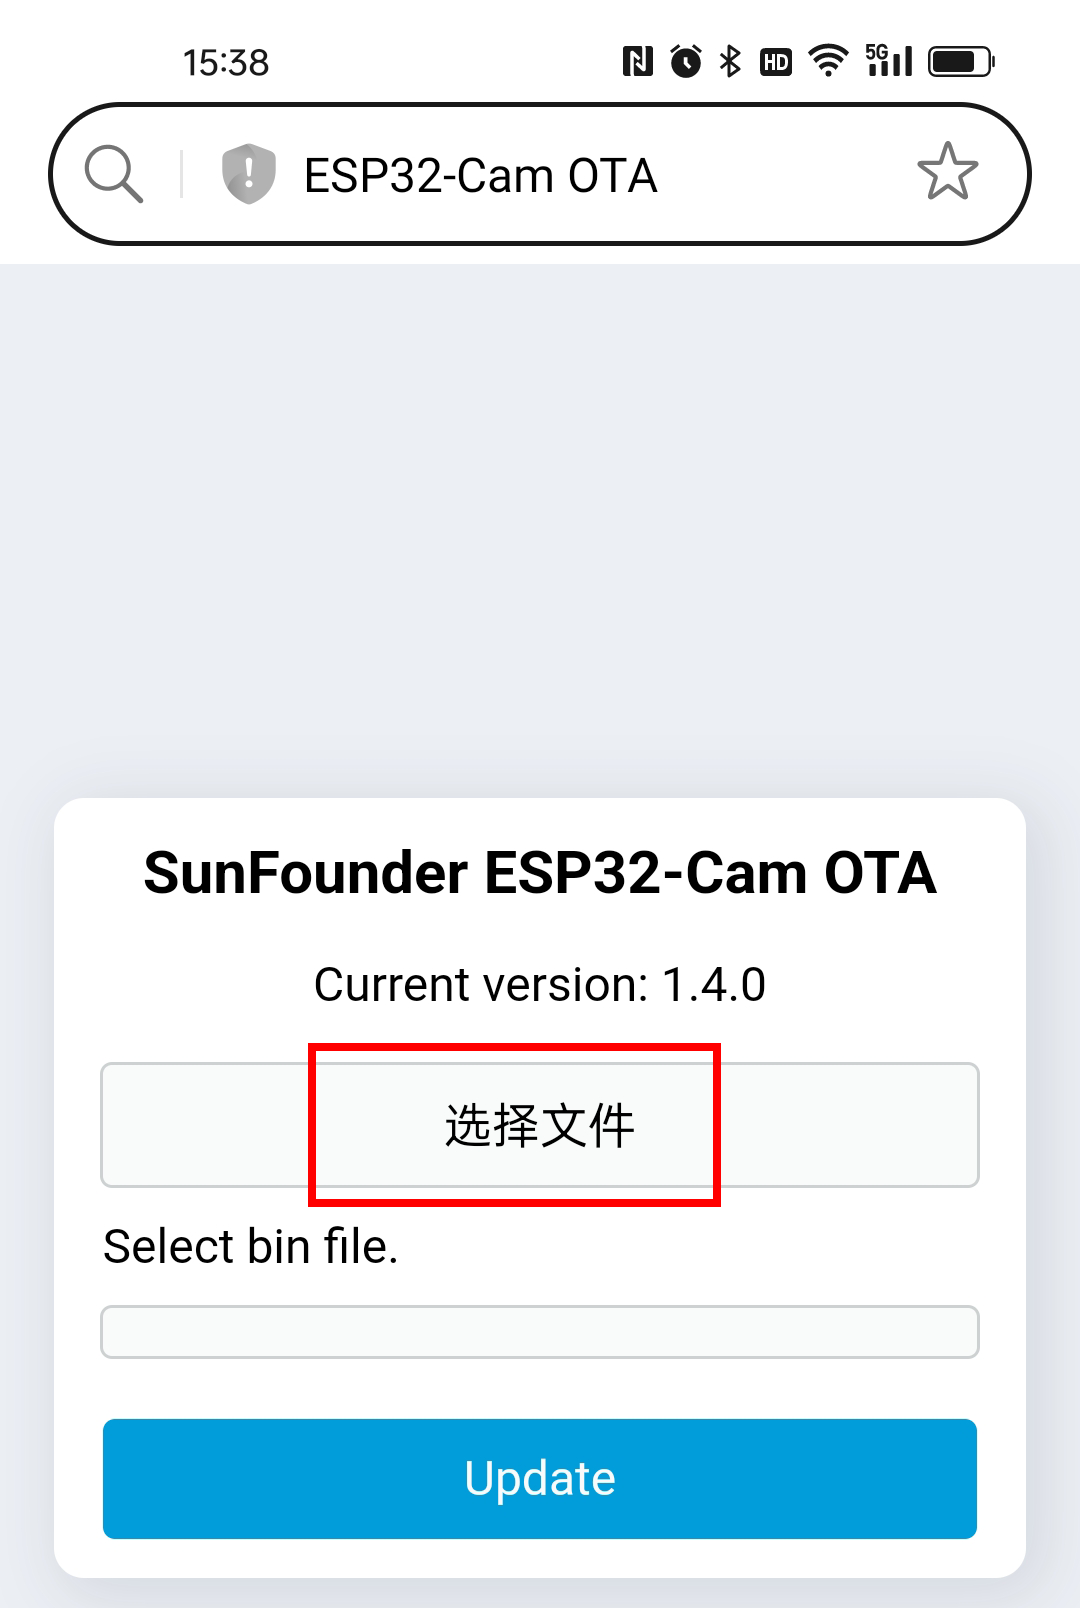
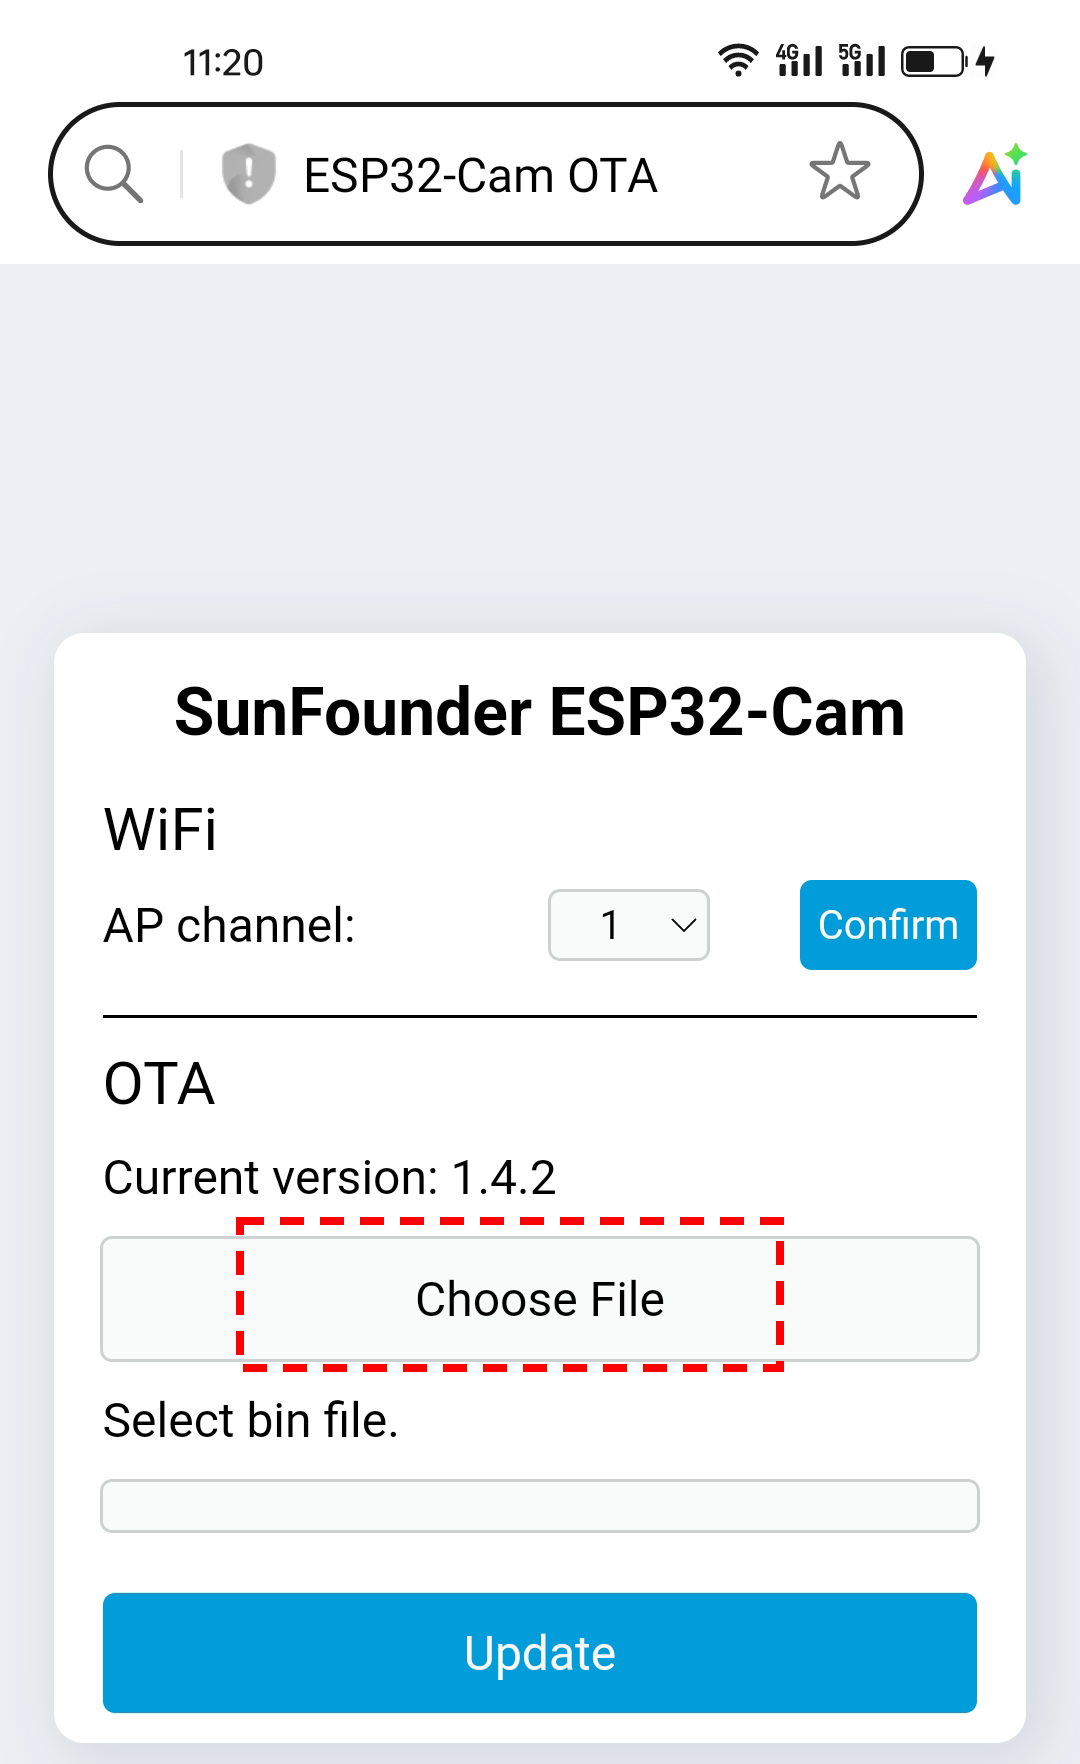
docs: update ESP32 CAM firmware version to 1.4.2 in FAQ
Update documentation and related images to reflect the new firmware version 1.4.2 for ESP32 CAM, including download links and version references

diff --git a/docs/source/faq.rst b/docs/source/faq.rst
@@ -9,26 +9,26 @@
 
 .. note::
 
-   若要修改 Wi-Fi 信道，ESP32 CAM 固件版本需为 1.4.1 及以上。更多信息请参阅 :ref:`update_firmware` 。
+   若要修改 Wi-Fi 信道，ESP32 CAM 固件版本需为 1.4.2 及以上。更多信息请参阅 :ref:`update_firmware` 。
 
 #. 打开 GalaxyRVR 电源。将模式拨至 **Run** 位置以启用 ESP32 CAM，并按下 **reset** 按钮重启 R3 主控板。
 
-     .. raw:: html
+   .. raw:: html
 
-        <video width="600" loop autoplay muted>
-            <source src="_static/video/play_reset.mp4" type="video/mp4">
-            Your browser does not support the video tag.
-        </video>
+      <video width="600" loop autoplay muted>
+          <source src="_static/video/play_reset.mp4" type="video/mp4">
+          Your browser does not support the video tag.
+      </video>
 
 #. 在手机或平板设备的 Wi-Fi 列表中找到 ``GalaxyRVR``，输入密码 ``12345678`` 并连接。
 
-     .. note::
+   .. note::
 
-        * 当前为连接至 GalaxyRVR 热点模式，无互联网访问。如果系统提示切换网络，请选择“保持连接”。
-        * :ref:`ap_to_sta`
+      * 当前为连接至 GalaxyRVR 热点模式，无互联网访问。如果系统提示切换网络，请选择“保持连接”。
+      * :ref:`ap_to_sta`
 
-     .. image:: img/app/camera_lan.png
-        :width: 500
+   .. image:: img/app/camera_lan.png
+      :width: 500
 
 #. 在浏览器中输入 ``http://192.168.4.1`` ，进入 ESP32 CAM OTA 更新页面。
 
@@ -61,26 +61,26 @@
 
 #. 打开 GalaxyRVR 电源，将模式拨至 **Run** ，并按下 **reset** 按钮重启 R3 主控板。
 
-     .. raw:: html
+   .. raw:: html
 
-        <video width="600" loop autoplay muted>
-            <source src="_static/video/play_reset.mp4" type="video/mp4">
-            Your browser does not support the video tag.
-        </video>
+      <video width="600" loop autoplay muted>
+          <source src="_static/video/play_reset.mp4" type="video/mp4">
+          Your browser does not support the video tag.
+      </video>
 
 #. 使用手机或平板连接 ``GalaxyRVR`` Wi-Fi，密码为 ``12345678`` 。
 
-     .. note::
+   .. note::
 
-        * 当前为 GalaxyRVR 热点，无互联网访问。如提示切换网络，请选择“保持连接”。
-        * :ref:`ap_to_sta`
+      * 当前为 GalaxyRVR 热点，无互联网访问。如提示切换网络，请选择“保持连接”。
+      * :ref:`ap_to_sta`
 
-     .. image:: img/app/camera_lan.png
+   .. image:: img/app/camera_lan.png
         :width: 500
 
-#. 点击下方链接下载固件 ``ai-camera-firmware-v1.4.1-ota.bin`` 并保存到设备。
+#. 点击下方链接下载固件 ``ai-camera-firmware-v1.4.2-ota.bin`` 并保存到设备。
 
-   * :download:`ESP32 CAM Firmware <https://github.com/sunfounder/ai-camera-firmware/releases/download/1.4.1/ai-camera-firmware-v1.4.1-ota.bin>`
+   * :download:`ESP32 CAM Firmware <https://github.com/sunfounder/ai-camera-firmware/releases/download/1.4.2/ai-camera-firmware-v1.4.2-ota.bin>`
 
 #. 打开浏览器并访问 ``http://192.168.4.1`` 进入 OTA 更新页面。
 
@@ -92,7 +92,7 @@
    .. image:: img/faq_cam_ota_choose.png
       :width: 400
 
-#. 选择刚下载的 ``ai-camera-firmware-v1.4.1-ota.bin`` 文件并点击 **OK** 。
+#. 选择刚下载的 ``ai-camera-firmware-v1.4.2-ota.bin`` 文件并点击 **添加** 。
 
    .. image:: img/faq_cam_ota_file.png
       :width: 400
@@ -102,7 +102,7 @@
    .. image:: img/faq_cam_ota_update.png
       :width: 400
 
-#. 等待更新完成。当页面上显示的版本号变为 ``1.4.1`` 时，表示更新成功。
+#. 等待更新完成。当页面上显示的版本号变为 ``1.4.2`` 时，表示更新成功。
 
    .. image:: img/faq_cam_ota_finish.png
       :width: 400
